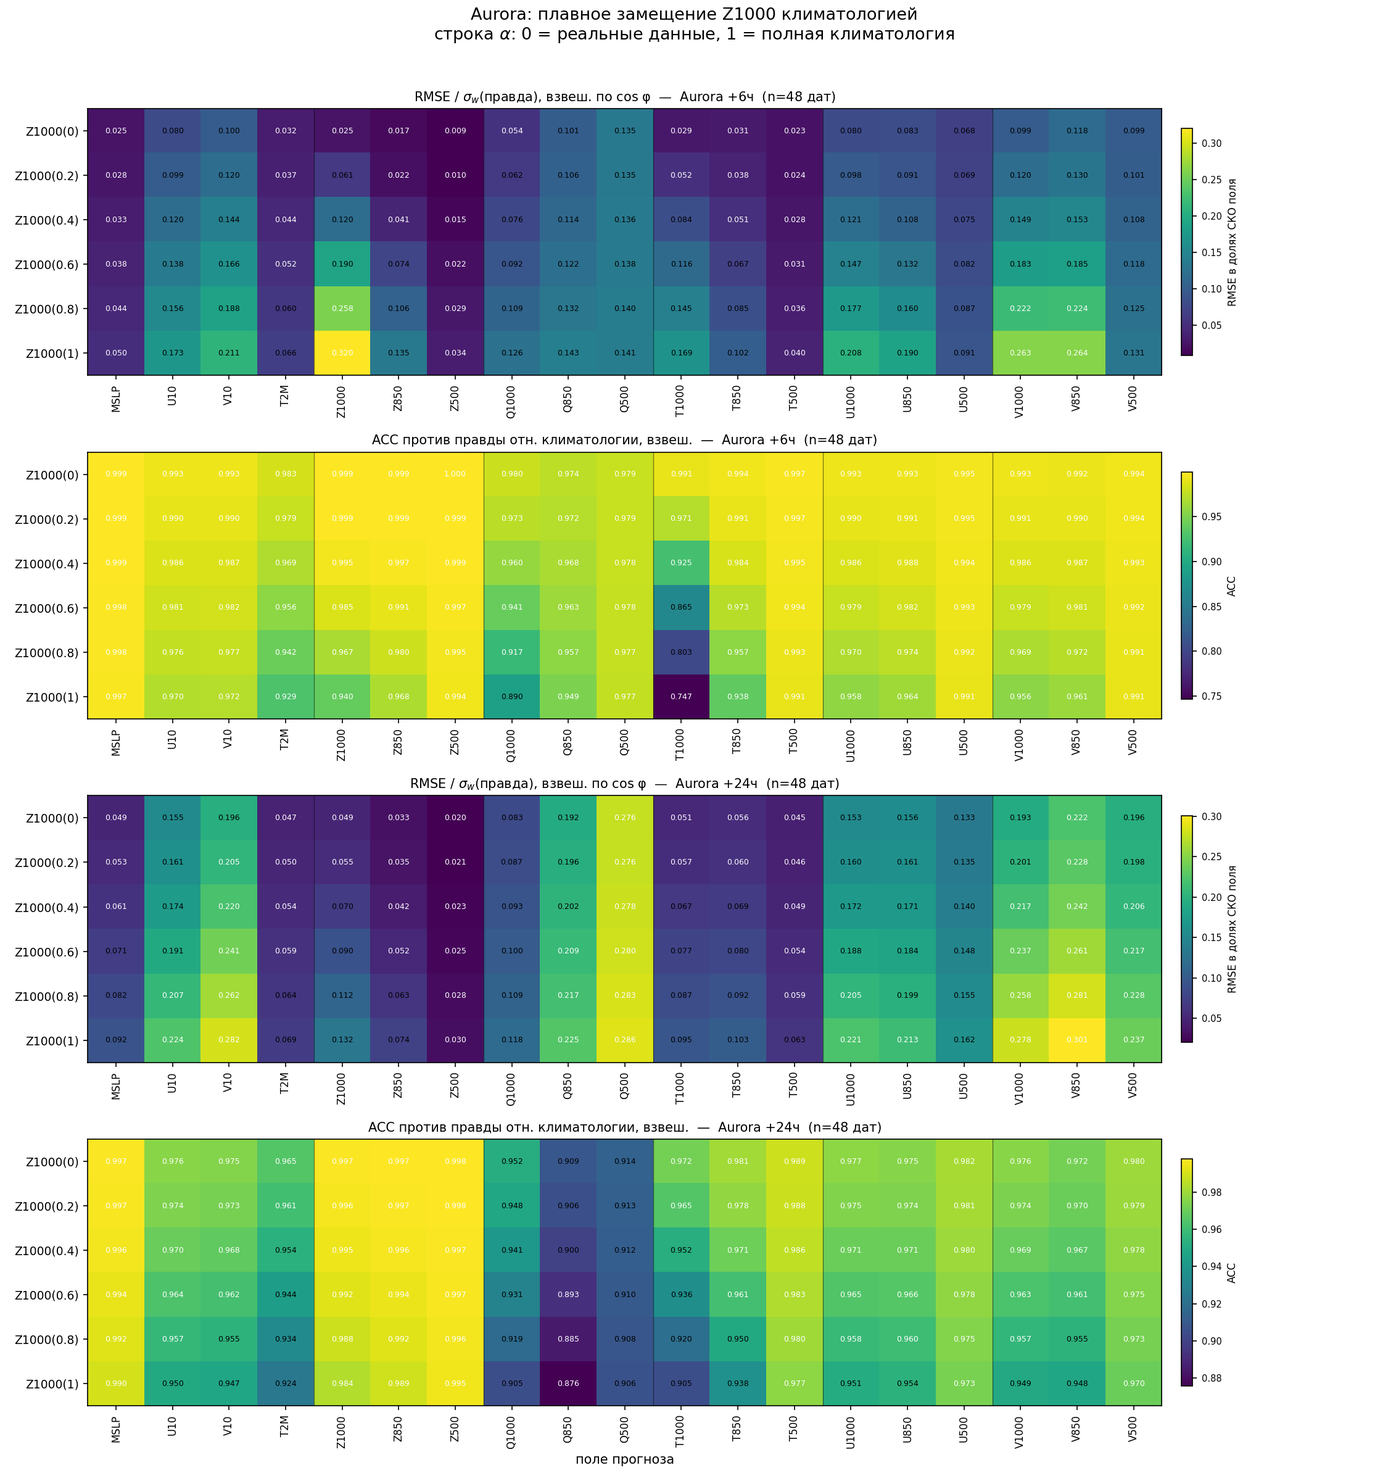
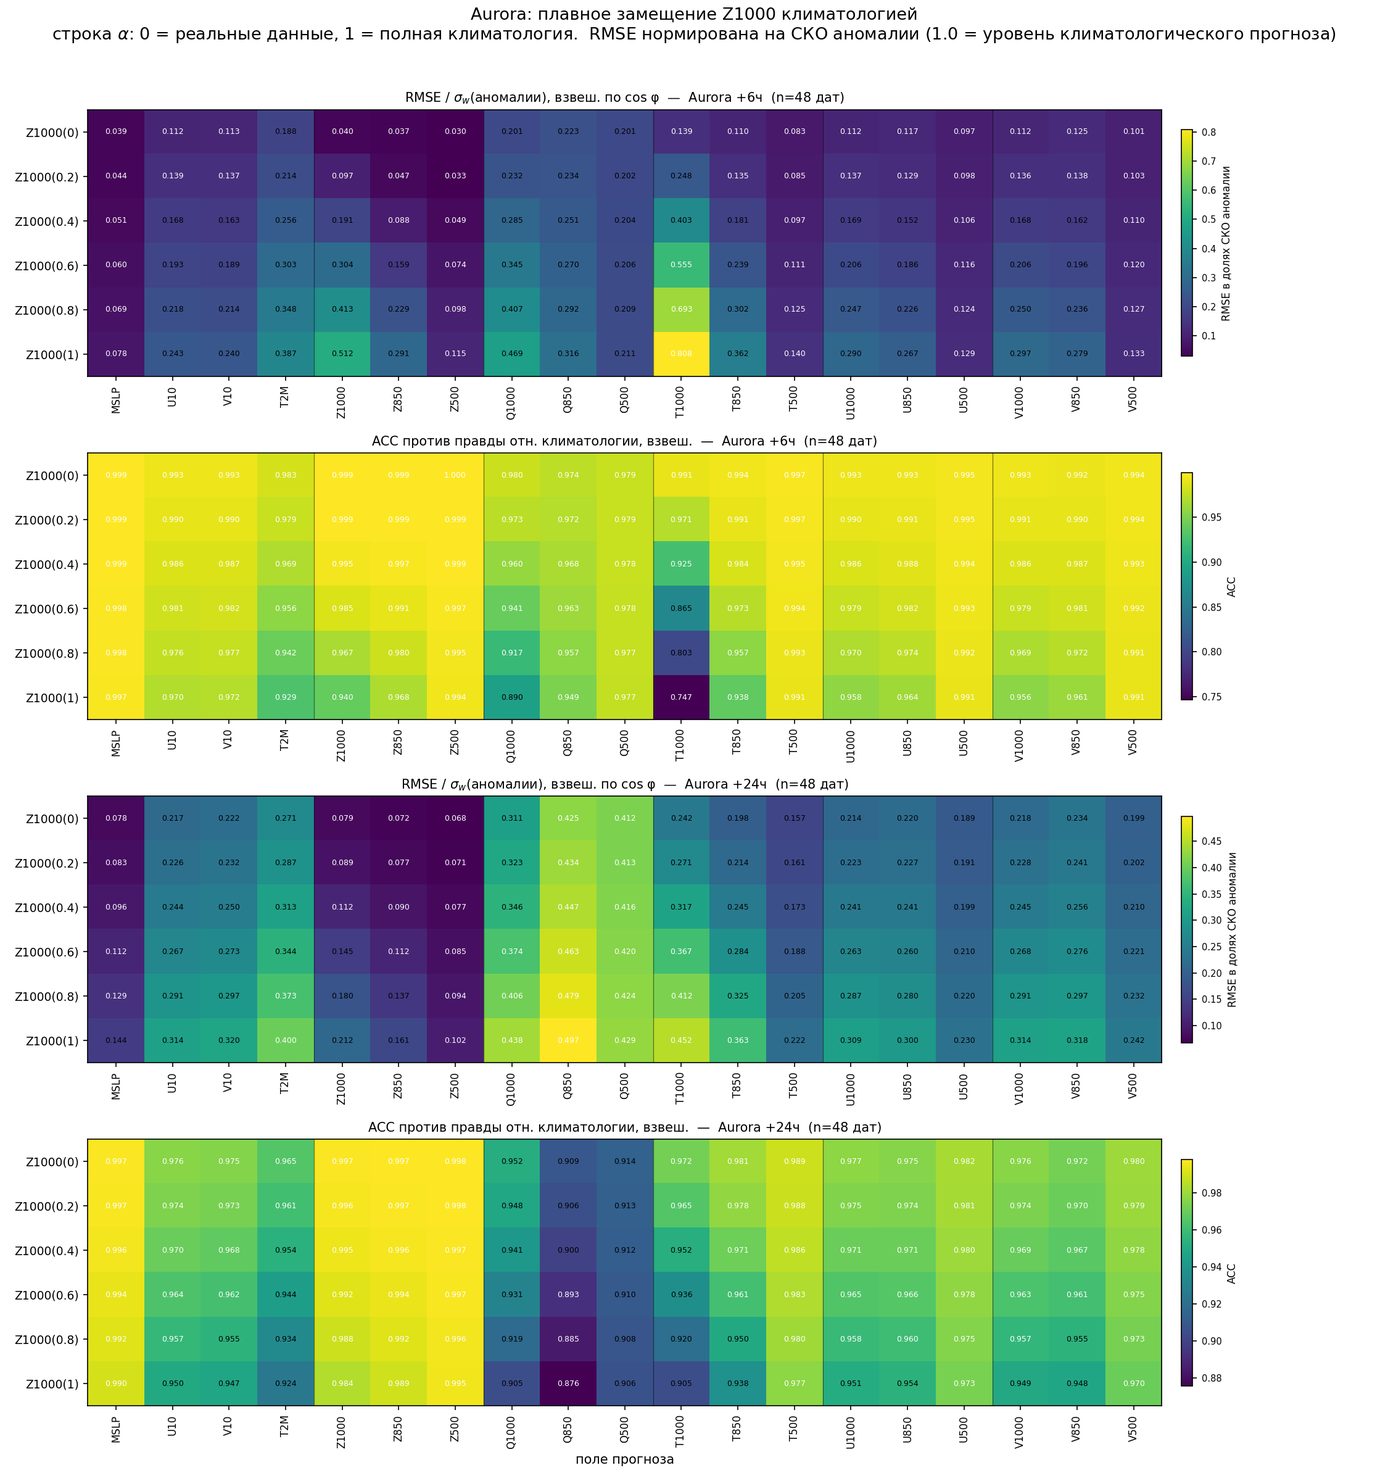
Dose-response for Pangu-Weather + anomaly-sigma as the default normalisation
- run_dose_response.py takes the patched variable as argv[4]; outputs now live under
  results/dose_response/<var>/<model>/ so Z850 and Z500 can follow without collisions
- launch_dose.sh splits the 48 dates over the 4 GPUs
- analyse_dose.py replaces analyse_dose_z1000.py: parameterised by model and patched field,
  computes both sigmas in one pass and normalises the RMSE panels by the anomaly std
- plot_dose_{panels,curves}.py and composite_bias_maps.py parameterised the same way
- fix: composite_bias_maps.py assumed a 720-latitude grid; Pangu keeps 721, so the
  accumulator shape now comes from the sliced latitude array instead of the crop constant

Pangu Z1000: 48 dates, 4 alphas, 24 GB, plus 12 composite bias maps.

diff --git a/analysis/analyse_dose.py b/analysis/analyse_dose.py
@@ -1,0 +1,200 @@
+"""Dose-response matrices for a blended input field.
+
+    analyse_dose.py <model> [patch_var]        e.g.  analyse_dose.py pangu Z1000
+
+Rows    = alpha in {0, 0.2, 0.4, 0.6, 0.8, 1.0}   (0 = real field, 1 = full climatology)
+Columns = all 19 forecast fields
+
+Four panels: RMSE and ACC, each at +6h and +24h.
+
+Stored (pickle) per (date, lead, alpha, output):
+    rmse_raw    -- cos(phi)-weighted RMSE against ERA5, in the field's own units
+    rmse_anom   -- same divided by sigma_w(truth - climatology)   <- what the figure shows
+    rmse_norm   -- same divided by sigma_w(truth)                 <- kept for continuity
+    acc         -- cos(phi)-weighted ACC against ERA5 w.r.t. climatology
+    d_rmse, d_acc, sig_truth, sig_anom
+
+The RMSE panels are normalised by the ANOMALY std, not the std of the field itself.  The
+ratio between the two runs from 1.0 (V500 -- the climatological mean meridional wind is
+almost zero) to 5.8 (T2M -- dominated by the pole-equator gradient), so normalising by the
+field std systematically deflates the thermodynamic variables relative to wind and reorders
+which fields look most sensitive.  RMSE/sigma_anom = 1 is the no-skill line: the forecast is
+no better than issuing climatology.
+"""
+import os
+import sys
+import glob
+import numpy as np
+import pandas as pd
+import xarray as xr
+import matplotlib
+matplotlib.use('Agg')
+import matplotlib.pyplot as plt
+
+MODEL = sys.argv[1] if len(sys.argv) > 1 else 'aurora'
+PATCH = sys.argv[2] if len(sys.argv) > 2 else 'Z1000'
+CROP = 720 if MODEL == 'aurora' else None
+ALPHAS = [0.0, 0.2, 0.4, 0.6, 0.8, 1.0]
+LEADS = [6, 24]
+
+DATA_ROOT = '/srv/exw/data/irina_weather_interpretability'
+BASE_DIR = os.path.expanduser('~/weather-interpretability/results/patching/patching_19var'
+                              + ('' if MODEL == 'aurora' else f'_{MODEL}'))
+DR_DIR = os.path.expanduser(
+    f'~/weather-interpretability/results/dose_response/{PATCH.lower()}/{MODEL}')
+FIG_DIR = os.path.expanduser('~/weather-interpretability/figures/dose_response')
+os.makedirs(FIG_DIR, exist_ok=True)
+
+NAMES = ['MSLP', 'U10', 'V10', 'T2M']
+for s in ('Z', 'Q', 'T', 'U', 'V'):
+    NAMES += [f'{s}1000', f'{s}850', f'{s}500']
+GROUP_EDGES = [4, 7, 10, 13, 16]
+
+VARS = {'MSLP': ('surf', 'mean_sea_level_pressure', None), 'U10': ('surf', '10m_u_component_of_wind', None),
+        'V10': ('surf', '10m_v_component_of_wind', None), 'T2M': ('surf', '2m_temperature', None)}
+for _s, _l in (('Z', 'geopotential'), ('Q', 'specific_humidity'), ('T', 'temperature'),
+               ('U', 'u_component_of_wind'), ('V', 'v_component_of_wind')):
+    for _lv in (1000, 850, 500):
+        VARS[f'{_s}{_lv}'] = ('upper', _l, _lv)
+
+_tri = [(2024, m, d) for m in range(1, 13) for d in (4, 11, 18, 25)]
+_hrs = [0, 6, 12, 18] * (len(_tri) // 4)
+ALL_DATES = {f'{y}{m:02d}{d:02d}_{h:02d}': np.datetime64(f'{y}-{m:02d}-{d:02d}T{h:02d}:00')
+             for (y, m, d), h in zip(_tri, _hrs)}
+
+ds_surf = xr.open_zarr(f'{DATA_ROOT}/era5_2024_2025_6h_surface.zarr', chunks=None)
+ds_upper = xr.open_zarr(f'{DATA_ROOT}/era5_2024_2025_6h_upper.zarr', chunks=None)
+clim_surf = xr.open_zarr(f'{DATA_ROOT}/climatology_1990-2019_surface.zarr', chunks=None)
+clim_upper = xr.open_zarr(f'{DATA_ROOT}/climatology_1990-2019_upper_500_850_1000.zarr', chunks=None)
+_lat = ds_surf.latitude.values[:CROP]
+W = np.cos(np.deg2rad(_lat))[:, None] * np.ones((1, ds_surf.longitude.size))
+W = W / W.sum()
+
+
+def truth_clim(name, valid):
+    kind, var, lv = VARS[name]
+    ts = pd.Timestamp(valid)
+    doy, hour = min(ts.dayofyear, 366), (ts.hour // 6) * 6
+    if kind == 'surf':
+        return (ds_surf.sel(time=valid)[var].values[:CROP],
+                clim_surf.sel(dayofyear=doy, hour=hour)[var].values[:CROP])
+    return (ds_upper.sel(time=valid, level=lv)[var].values[:CROP],
+            clim_upper.sel(dayofyear=doy, hour=hour, level=lv)[var].values[:CROP])
+
+
+def rmse_w(a, b):
+    return float(np.sqrt((W * (a - b) ** 2).sum()))
+
+
+def std_w(a):
+    m = (W * a).sum()
+    return float(np.sqrt((W * (a - m) ** 2).sum()))
+
+
+def acc_w(p, t, c):
+    a, b = p - c, t - c
+    den = np.sqrt((W * a ** 2).sum() * (W * b ** 2).sum())
+    return float((W * a * b).sum() / den) if den > 1e-12 else np.nan
+
+
+dates = sorted(os.path.basename(f).replace(f'_{MODEL}.npz', '')
+               for f in glob.glob(os.path.join(DR_DIR, f'*_{MODEL}.npz')))
+print(f'{MODEL} / {PATCH}: {len(dates)} дат в {DR_DIR}', flush=True)
+
+rows = []
+for label in dates:
+    bfp = os.path.join(BASE_DIR, f'{label}_{MODEL}.npz')
+    if not os.path.exists(bfp):
+        print(f'  {label}: нет baseline, пропуск', flush=True); continue
+    try:
+        b = np.load(bfp)
+        d = np.load(os.path.join(DR_DIR, f'{label}_{MODEL}.npz'))
+        init = ALL_DATES[label]
+        for lead in LEADS:
+            valid = init + np.timedelta64(lead, 'h')
+            for out in NAMES:
+                tr, cl = truth_clim(out, valid)
+                s_tr, s_an = std_w(tr), std_w(tr - cl)
+                base = b[f'baseline_lead{lead}_{out}']
+                r0, a0 = rmse_w(base, tr), acc_w(base, tr, cl)
+                for al in ALPHAS:
+                    if al == 0.0:
+                        pred = base
+                    elif al == 1.0:
+                        pred = b[f'patch{PATCH}_lead{lead}_{out}']
+                    else:
+                        pred = d[f'{PATCH}_a{al}_lead{lead}_{out}']
+                    r, ac = rmse_w(pred, tr), acc_w(pred, tr, cl)
+                    rows.append({'date': label, 'lead': lead, 'alpha': al, 'output': out,
+                                 'rmse_raw': r,
+                                 'rmse_anom': r / s_an if s_an > 1e-12 else np.nan,
+                                 'rmse_norm': r / s_tr if s_tr > 1e-12 else np.nan,
+                                 'acc': ac, 'd_rmse': r - r0, 'd_acc': ac - a0,
+                                 'sig_truth': s_tr, 'sig_anom': s_an})
+        b.close(); d.close()
+        print(f'  {label} ok', flush=True)
+    except Exception as e:
+        print(f'  {label}: ПРОПУСК ({str(e)[:60]})', flush=True)
+
+df = pd.DataFrame(rows)
+if df.empty:
+    raise SystemExit('нет данных')
+df.to_pickle(os.path.join(DR_DIR, f'dose_matrix_{MODEL}.pkl'))
+n = df.date.nunique()
+print(f'{n} дат, {len(df)} строк', flush=True)
+
+TITLE = {'aurora': 'Aurora', 'pangu': 'Pangu-Weather', 'stormer': 'Stormer'}[MODEL]
+
+
+def draw(ax, mat, title, cmap, cbar_label, fmt='{:.3f}'):
+    v, lo = np.nanmax(mat), np.nanmin(mat)
+    im = ax.imshow(mat, cmap=cmap, vmin=lo, vmax=v, aspect='auto')
+    ax.set_xticks(range(len(NAMES))); ax.set_xticklabels(NAMES, rotation=90, fontsize=8)
+    ax.set_yticks(range(len(ALPHAS)))
+    ax.set_yticklabels([f'{PATCH}({a:g})' for a in ALPHAS], fontsize=9)
+    for e in GROUP_EDGES:
+        ax.axvline(e - 0.5, color='k', lw=0.6, alpha=0.5)
+    for i in range(mat.shape[0]):
+        for j in range(mat.shape[1]):
+            val = mat[i, j]
+            if np.isfinite(val):
+                rel = (val - lo) / (v - lo) if v > lo else 0.5
+                ax.text(j, i, fmt.format(val), ha='center', va='center', fontsize=6,
+                        color='white' if (rel > 0.65 or rel < 0.15) else 'black')
+    ax.set_title(title, fontsize=10)
+    cb = plt.colorbar(im, ax=ax, shrink=0.85, pad=0.015)
+    cb.set_label(cbar_label, fontsize=8)
+    cb.ax.tick_params(labelsize=7)
+
+
+fig, axes = plt.subplots(4, 1, figsize=(15, 16))
+for k, lead in enumerate(LEADS):
+    sub = df[df.lead == lead]
+    m_r = sub.groupby(['alpha', 'output'])['rmse_anom'].mean().unstack().reindex(
+        index=ALPHAS, columns=NAMES).values
+    m_a = sub.groupby(['alpha', 'output'])['acc'].mean().unstack().reindex(
+        index=ALPHAS, columns=NAMES).values
+    draw(axes[2 * k], m_r,
+         f'RMSE / $\\sigma_w$(аномалии), взвеш. по cos φ  —  {TITLE} +{lead}ч  (n={n} дат)',
+         'viridis', 'RMSE в долях СКО аномалии')
+    draw(axes[2 * k + 1], m_a,
+         f'ACC против правды отн. климатологии, взвеш.  —  {TITLE} +{lead}ч  (n={n} дат)',
+         'viridis', 'ACC')
+axes[-1].set_xlabel('поле прогноза', fontsize=10)
+fig.suptitle(f'{TITLE}: плавное замещение {PATCH} климатологией\n'
+             f'строка $\\alpha$: 0 = реальные данные, 1 = полная климатология.  '
+             f'RMSE нормирована на СКО аномалии (1.0 = уровень климатологического прогноза)',
+             fontsize=13, y=0.995)
+plt.tight_layout(rect=[0, 0, 1, 0.985])
+out = f'{FIG_DIR}/dose_matrix_{PATCH}_{MODEL}_n{n}.png'
+plt.savefig(out, dpi=150)
+print('saved', out, flush=True)
+
+print('\n=== рост RMSE/σ_аном относительно alpha=0 ===')
+for lead in LEADS:
+    s = df[df.lead == lead].groupby('alpha')['rmse_anom'].mean()
+    print(f'  +{lead:2d}ч: ' + '  '.join(f'a={a:g}:{s[a]/s[0.0]:.2f}x' for a in ALPHAS))
+print('=== средний ACC по всем полям ===')
+for lead in LEADS:
+    s = df[df.lead == lead].groupby('alpha')['acc'].mean()
+    print(f'  +{lead:2d}ч: ' + '  '.join(f'a={a:g}:{s[a]:.4f}' for a in ALPHAS))

diff --git a/plots/composite_bias_maps.py b/plots/composite_bias_maps.py
@@ -23,16 +23,22 @@ matplotlib.use('Agg')
 import matplotlib.pyplot as plt
 import cartopy.crs as ccrs
 
-MODEL, CROP, PATCH = 'aurora', 720, 'Z1000'
+import sys
+MODEL = sys.argv[1] if len(sys.argv) > 1 else 'aurora'
+PATCH = sys.argv[2] if len(sys.argv) > 2 else 'Z1000'
+CROP = 720 if MODEL == 'aurora' else None
 ALPHAS = [0.0, 0.2, 0.4, 0.6, 0.8, 1.0]
 MID = [0.2, 0.4, 0.6, 0.8]          # these live in the dose_response directory
 FIELDS = ['Q1000', 'T1000', 'U1000', 'V1000']
 LEADS = [6, 24]
 
 DATA_ROOT = '/srv/exw/data/irina_weather_interpretability'
-BASE_DIR = os.path.expanduser('~/weather-interpretability/results/patching/patching_19var')
-DR_DIR = os.path.expanduser(f'~/weather-interpretability/results/dose_response/dose_response_z1000_{MODEL}')
-OUT_DIR = os.path.expanduser('~/weather-interpretability/results/dose_response/composite_bias')
+BASE_DIR = os.path.expanduser('~/weather-interpretability/results/patching/patching_19var'
+                              + ('' if MODEL == 'aurora' else f'_{MODEL}'))
+DR_DIR = os.path.expanduser(
+    f'~/weather-interpretability/results/dose_response/{PATCH.lower()}/{MODEL}')
+OUT_DIR = os.path.expanduser(
+    f'~/weather-interpretability/results/dose_response/{PATCH.lower()}/composite_bias_{MODEL}')
 FIG_DIR = os.path.expanduser('~/weather-interpretability/figures/bias_maps')
 os.makedirs(OUT_DIR, exist_ok=True)
 os.makedirs(FIG_DIR, exist_ok=True)
@@ -47,8 +53,10 @@ ALL_DATES = {f'{y}{m:02d}{d:02d}_{h:02d}': np.datetime64(f'{y}-{m:02d}-{d:02d}T{
 
 ds_upper = xr.open_zarr(f'{DATA_ROOT}/era5_2024_2025_6h_upper.zarr', chunks=None)
 lat = ds_upper.latitude.values[:CROP]
+NLAT = lat.size            # Pangu keeps all 721 latitudes, Aurora crops to 720
 lon = ds_upper.longitude.values
 
+TITLE = {'aurora': 'Aurora', 'pangu': 'Pangu-Weather', 'stormer': 'Stormer'}[MODEL]
 dates = sorted(os.path.basename(f).replace(f'_{MODEL}.npz', '')
                for f in glob.glob(os.path.join(DR_DIR, f'*_{MODEL}.npz')))
 dates = [d for d in dates if os.path.exists(os.path.join(BASE_DIR, f'{d}_{MODEL}.npz'))]
@@ -56,7 +64,7 @@ N = len(dates)
 print(f'{N} дат', flush=True)
 
 # accumulate sum of squared errors per pixel: sse[lead][alpha][field]
-sse = {L: {a: {f: np.zeros((CROP, lon.size), dtype=np.float64) for f in FIELDS}
+sse = {L: {a: {f: np.zeros((NLAT, lon.size), dtype=np.float64) for f in FIELDS}
            for a in ALPHAS} for L in LEADS}
 
 for i, label in enumerate(dates, 1):
@@ -85,7 +93,7 @@ for i, label in enumerate(dates, 1):
 rmse = {L: {a: {f: np.sqrt(sse[L][a][f] / N) for f in FIELDS} for a in ALPHAS} for L in LEADS}
 delta = {L: {a: {f: rmse[L][a][f] - rmse[L][0.0][f] for f in FIELDS} for a in ALPHAS} for L in LEADS}
 
-np.savez_compressed(os.path.join(OUT_DIR, f'composite_rmse_{PATCH}_{MODEL}_n{N}.npz'),
+np.savez_compressed(os.path.join(OUT_DIR, f'composite_rmse_{MODEL}_{PATCH}_n{N}.npz'),
                     **{f'rmse_lead{L}_a{a}_{f}': rmse[L][a][f]
                        for L in LEADS for a in ALPHAS for f in FIELDS},
                     lat=lat, lon=lon, n_dates=np.array([N]))
@@ -116,11 +124,11 @@ for L in LEADS:
                          f'хуже на {worse:.0f}% узлов,  средняя RMSE ×{ratio:.2f}',
                          fontsize=9.5, pad=8)
         extra = '   (контроль: тождественно нуль)' if a == 0.0 else ''
-        fig.suptitle(f'Aurora, композит по {N} датам, лид +{L}ч:  подмена {PATCH} '
+        fig.suptitle(f'{TITLE}, композит по {N} датам, лид +{L}ч:  подмена {PATCH} '
                      f'с долей климатологии α = {a:g}{extra}\n'
                      f'попиксельная RMSE по датам, минус то же при α=0   '
                      f'(красное — стало хуже; шкала общая для всех α)', fontsize=12, y=0.97)
-        out = f'{FIG_DIR}/composite_bias_{PATCH}_lead{L}_alpha{a:g}_n{N}.png'
+        out = f'{FIG_DIR}/composite_bias_{MODEL}_{PATCH}_lead{L}_alpha{a:g}_n{N}.png'
         plt.savefig(out, dpi=140)
         plt.close(fig)
         print('saved', out, flush=True)

diff --git a/plots/plot_dose_panels.py b/plots/plot_dose_panels.py
@@ -20,11 +20,14 @@ import matplotlib
 matplotlib.use('Agg')
 import matplotlib.pyplot as plt
 
-MODEL, PATCH = 'aurora', 'Z1000'
+import sys
+MODEL = sys.argv[1] if len(sys.argv) > 1 else 'aurora'
+PATCH = sys.argv[2] if len(sys.argv) > 2 else 'Z1000'
 ALPHAS = [0.0, 0.2, 0.4, 0.6, 0.8, 1.0]
 LEADS = [6, 24]
 
-DR_DIR = os.path.expanduser(f'~/weather-interpretability/results/dose_response/dose_response_z1000_{MODEL}')
+DR_DIR = os.path.expanduser(
+    f'~/weather-interpretability/results/dose_response/{PATCH.lower()}/{MODEL}')
 FIG_DIR = os.path.expanduser('~/weather-interpretability/figures/dose_response')
 os.makedirs(FIG_DIR, exist_ok=True)
 
@@ -42,11 +45,12 @@ df = pd.read_pickle(os.path.join(DR_DIR, f'dose_matrix_{MODEL}.pkl'))
 n = df.date.nunique()
 print(f'{n} дат', flush=True)
 
+TITLE = {'aurora': 'Aurora', 'pangu': 'Pangu-Weather', 'stormer': 'Stormer'}[MODEL]
 A = np.array(ALPHAS)
 for lead in LEADS:
-    g = df[df.lead == lead].groupby(['output', 'alpha'])['rmse_norm'].mean().unstack()
+    g = df[df.lead == lead].groupby(['output', 'alpha'])['rmse_anom'].mean().unstack()
     fig, axes = plt.subplots(2, 3, figsize=(15.5, 9))
-    print(f'\n+{lead}ч, наклон k прямой RMSE/σ по α:')
+    print(f'\n+{lead}ч, наклон k, нормировка на СКО аномалии:')
     for ax, (title, items) in zip(axes.ravel(), PANELS):
         for f, col, mk in items:
             y = np.array([g.loc[f, a] for a in ALPHAS])
@@ -65,11 +69,12 @@ for lead in LEADS:
     for ax in axes[1]:
         ax.set_xlabel(r'$\alpha$ — доля климатологии во входном ' + PATCH, fontsize=10)
     for ax in axes[:, 0]:
-        ax.set_ylabel(r'RMSE / $\sigma_w$(правда)', fontsize=10)
-    fig.suptitle(f'Aurora +{lead}ч: все 19 полей прогноза при плавной подмене {PATCH} '
+        ax.set_ylabel(r'RMSE / $\sigma_w$(аномалии)', fontsize=10)
+    fig.suptitle(f'{TITLE} +{lead}ч: все 19 полей прогноза при плавной подмене {PATCH} '
                  f'климатологией  (среднее по {n} датам)\n'
-                 f'маркеры — измеренные точки;  пунктир — МНК-прямая, k — её наклон '
-                 f'(чувствительность поля к порче {PATCH})', fontsize=12.5)
+                 f'маркеры — измеренные точки;  пунктир — МНК-прямая, k — её наклон.  '
+                 f'Нормировка на СКО аномалии: y = 1 — прогноз не лучше климатологии',
+                 fontsize=12.5)
     plt.tight_layout(rect=[0, 0, 1, 0.935])
     out = f'{FIG_DIR}/dose_panels_{PATCH}_lead{lead}_{MODEL}_n{n}.png'
     plt.savefig(out, dpi=150)

diff --git a/plots/plot_dose_curves.py b/plots/plot_dose_curves.py
@@ -18,12 +18,15 @@ import matplotlib
 matplotlib.use('Agg')
 import matplotlib.pyplot as plt
 
-MODEL, PATCH = 'aurora', 'Z1000'
+import sys
+MODEL = sys.argv[1] if len(sys.argv) > 1 else 'aurora'
+PATCH = sys.argv[2] if len(sys.argv) > 2 else 'Z1000'
 TOP_N = 5
 ALPHAS = [0.0, 0.2, 0.4, 0.6, 0.8, 1.0]
 LEADS = [6, 24]
 
-DR_DIR = os.path.expanduser(f'~/weather-interpretability/results/dose_response/dose_response_z1000_{MODEL}')
+DR_DIR = os.path.expanduser(
+    f'~/weather-interpretability/results/dose_response/{PATCH.lower()}/{MODEL}')
 FIG_DIR = os.path.expanduser('~/weather-interpretability/figures/dose_response')
 os.makedirs(FIG_DIR, exist_ok=True)
 
@@ -32,13 +35,14 @@ for _lv in (1000, 850, 500):
     UNITS[f'Z{_lv}'] = 'м²/с²'; UNITS[f'Q{_lv}'] = 'кг/кг'
     UNITS[f'T{_lv}'] = 'К'; UNITS[f'U{_lv}'] = 'м/с'; UNITS[f'V{_lv}'] = 'м/с'
 
+TITLE = {'aurora': 'Aurora', 'pangu': 'Pangu-Weather', 'stormer': 'Stormer'}[MODEL]
 df = pd.read_pickle(os.path.join(DR_DIR, f'dose_matrix_{MODEL}.pkl'))
 n = df.date.nunique()
 print(f'{n} дат', flush=True)
 
 for lead in LEADS:
     sub = df[df.lead == lead]
-    g = sub.groupby(['output', 'alpha'])['rmse_norm'].mean().unstack()
+    g = sub.groupby(['output', 'alpha'])['rmse_anom'].mean().unstack()
     growth = (g[1.0] - g[0.0]).drop(PATCH).sort_values(ascending=False)
     top = list(growth.index[:TOP_N])
     print(f'\n+{lead}ч, топ-{TOP_N} по приросту RMSE/σ:')
@@ -58,8 +62,8 @@ for lead in LEADS:
             label=f'{PATCH} (само подменяемое поле)')
 
     ax.set_xlabel(r'$\alpha$ — доля климатологии во входном поле ' + PATCH, fontsize=11)
-    ax.set_ylabel(r'RMSE / $\sigma_w$(правда)', fontsize=11)
-    ax.set_title(f'Aurora +{lead}ч: рост ошибки при вливании зашумлённых данных\n'
+    ax.set_ylabel(r'RMSE / $\sigma_w$(аномалии)', fontsize=11)
+    ax.set_title(f'{TITLE} +{lead}ч: рост ошибки при вливании зашумлённых данных\n'
                  f'топ-{TOP_N} наиболее затронутых полей, среднее по {n} датам', fontsize=12)
     ax.set_xticks(ALPHAS)
     ax.grid(alpha=0.3)

diff --git a/experiments/dose_response/run_dose_response.py b/experiments/dose_response/run_dose_response.py
@@ -26,14 +26,15 @@ os.environ['PYTORCH_CUDA_ALLOC_CONF'] = 'expandable_segments:True'
 MODEL = sys.argv[1]
 WORKER = sys.argv[2]
 DATES_ARG = sys.argv[3].split(',')
+PATCH = sys.argv[4] if len(sys.argv) > 4 else 'Z1000'
 
 ALPHAS = [0.2, 0.4, 0.6, 0.8]        # 0.0 and 1.0 already exist in patching_19var*
-PATCH_VARS = ['Z1000']
+PATCH_VARS = [PATCH]
 N_STEPS = 4
 KEEP_STEPS = {0: 6, 3: 24}
 
 DATA_ROOT = '/srv/exw/data/irina_weather_interpretability'
-OUT_DIR = os.path.expanduser(f'~/weather-interpretability/results/dose_response/dose_response_z1000_{MODEL}')
+OUT_DIR = os.path.expanduser(f'~/weather-interpretability/results/dose_response/{PATCH.lower()}/{MODEL}')
 os.makedirs(OUT_DIR, exist_ok=True)
 
 _tri = [(2024, m, d) for m in range(1, 13) for d in (4, 11, 18, 25)]
